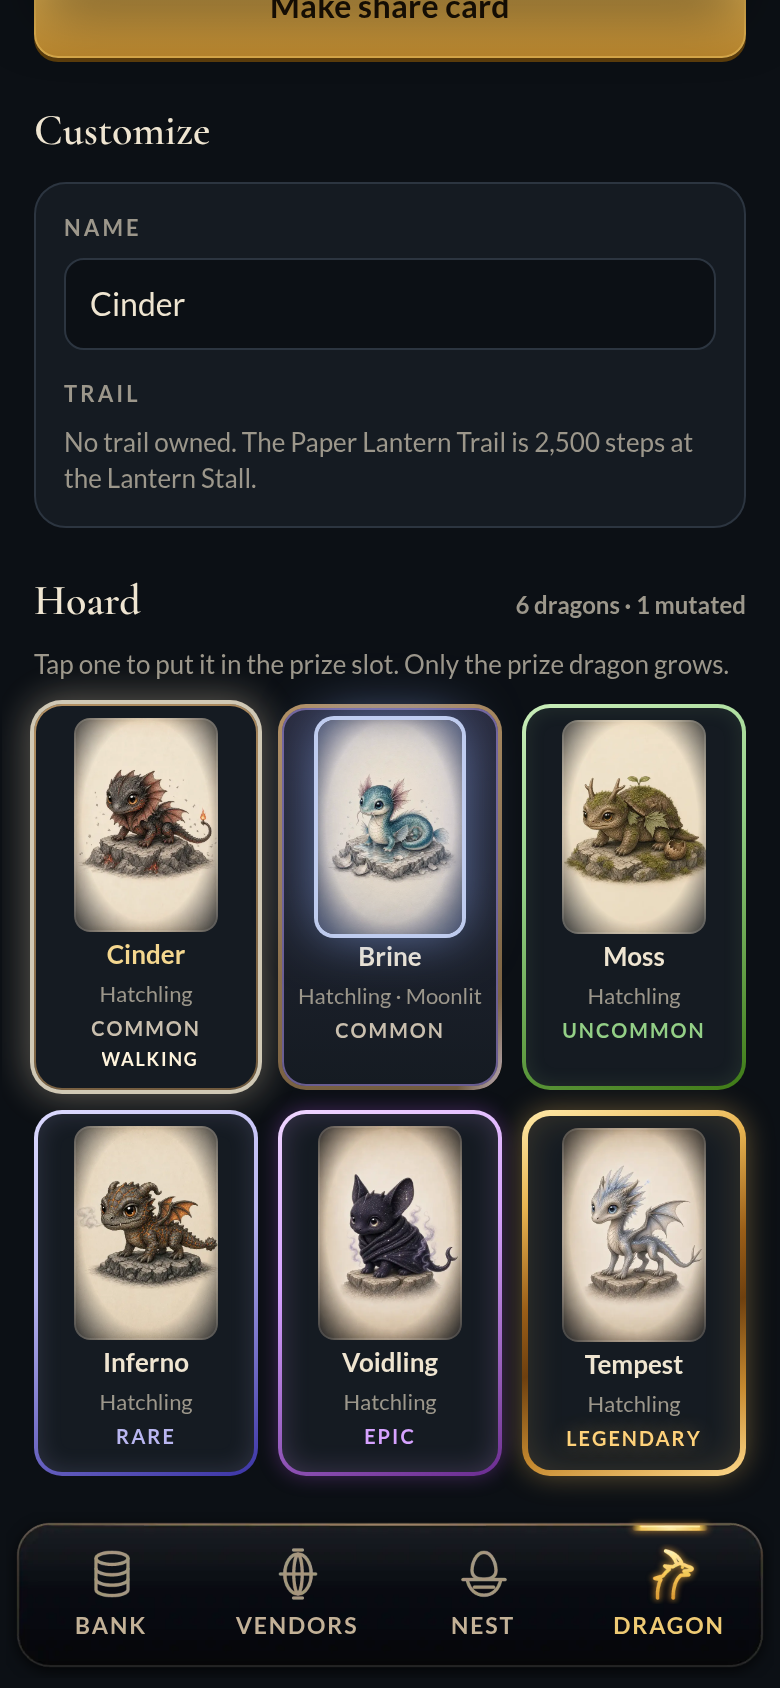
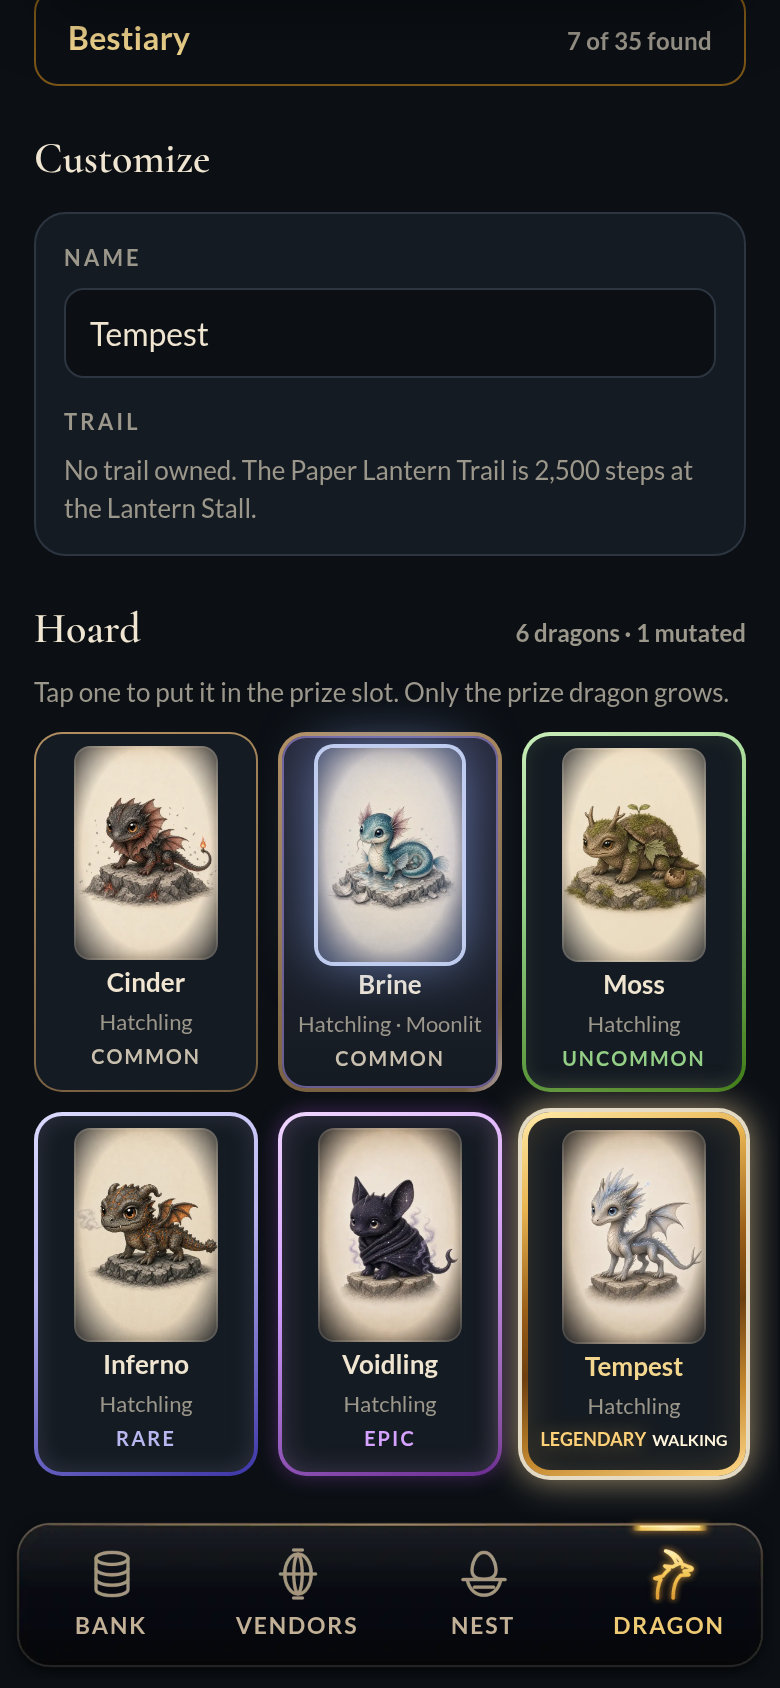
fix: keep WALKING on the rarity line and ignore null collections
The hoard prize tag shares the rarity label, including Legendary at 390px. Saves with a null or non-array eggs or dragons list load as empty arrays.

diff --git a/index.html b/index.html
@@ -243,7 +243,12 @@ button:focus-visible,input:focus-visible,a:focus-visible{outline:2px solid var(-
 .hoard{display:grid;grid-template-columns:repeat(auto-fill,minmax(96px,1fr));gap:10px}
 .hd{padding:6px 6px 8px;display:flex;flex-direction:column;align-items:center;gap:2px;font-size:13px;font-weight:600;min-width:0}
 .hd .dart{width:72px;border-radius:8px}
-.hd span{max-width:100%;overflow:hidden;text-overflow:ellipsis;white-space:nowrap}
+.hd > span{max-width:100%;overflow:hidden;text-overflow:ellipsis;white-space:nowrap}
+.hd > span.hd-rarity{display:inline-flex;align-items:baseline;justify-content:center;gap:4px;max-width:100%;white-space:nowrap;overflow:visible;text-overflow:clip}
+.hd > span.hd-rarity:has(.walk-tag){gap:3px}
+.hd > span.hd-rarity:has(.walk-tag) em{font-size:9px;letter-spacing:0}
+.hd > span.hd-rarity:has(.walk-tag) .walk-tag{font-size:8px;letter-spacing:0}
+.hd-rarity .walk-tag{margin-left:0;flex:none;max-width:none;overflow:visible}
 .hd[aria-pressed="true"]{color:var(--gold-hi)}
 .hd small{font-weight:500;color:var(--muted);font-size:11px}
 .hd em{font-style:normal;font-size:10px;font-weight:700;letter-spacing:.1em;text-transform:uppercase}
@@ -693,10 +698,17 @@ const MUT_NOTES = {
 
 /* ================= state ================= */
 function fresh(){ return {bank:0, lifetime:0, owned:{}, bought:{}, opened:{}, eggs:[], dragons:[], prize:null, scene:0, tab:"bank", seq:1, dex:{}, ver:SAVE_VER}; }
+function asList(v){ return Array.isArray(v) ? v : []; }
+function asMap(v){ return v && typeof v === "object" && !Array.isArray(v) ? v : {}; }
 function hydrate(obj){
   const st = Object.assign(fresh(), obj || {});
   if (!obj || !obj.ver) st.ver = 1;
-  if (!st.dex || typeof st.dex !== "object") st.dex = {};
+  st.dex = asMap(st.dex);
+  st.owned = asMap(st.owned);
+  st.bought = asMap(st.bought);
+  st.opened = asMap(st.opened);
+  st.eggs = asList(st.eggs);
+  st.dragons = asList(st.dragons);
   return st;
 }
 function load(){
@@ -1505,7 +1517,7 @@ function renderDragon(){
     h += `<div class="section"><h2>Hoard <small>${S.dragons.length} dragons${muts ? ` \u00B7 ${muts} mutated` : ""}</small></h2>
       <p class="hoard-note">Tap one to put it in the prize slot. Only the prize dragon grows.</p>
       <div class="hoard">${S.dragons.map((d, i) =>
-      `<button class="hd ${rfcls(d)}"${d.mut ? ` style="${rfd(i)}"` : ""} data-act="prize" data-id="${d.id}" aria-pressed="${d.id === S.prize}">${dragonArt(d, {still:true})}<span>${esc(d.name)}</span><small>${STAGES[stageIdx(d)].name}${d.mut ? ` \u00B7 ${MUTATIONS[d.mut].name}` : ""}</small><em class="r ${rcls(rarityOf(d))}">${rarityOf(d)}</em>${d.id === S.prize ? `<span class="walk-tag">Walking</span>` : ""}</button>`).join("")}</div></div>`;
+      `<button class="hd ${rfcls(d)}"${d.mut ? ` style="${rfd(i)}"` : ""} data-act="prize" data-id="${d.id}" aria-pressed="${d.id === S.prize}">${dragonArt(d, {still:true})}<span>${esc(d.name)}</span><small>${STAGES[stageIdx(d)].name}${d.mut ? ` \u00B7 ${MUTATIONS[d.mut].name}` : ""}</small><span class="hd-rarity"><em class="r ${rcls(rarityOf(d))}">${rarityOf(d)}</em>${d.id === S.prize ? `<span class="walk-tag">Walking</span>` : ""}</span></button>`).join("")}</div></div>`;
   }
   h += `<div style="height:24px"></div>`;
   $("#dragonBody").innerHTML = h;
@@ -1908,6 +1920,12 @@ function debugAct(a, b){
 const OLD_EGG = {ember:"ember", tide:"tide", forest:"forest", frost:"tide", inferno:"inferno", storm:"storm", void:"void", tempest:"tempest"};
 const OLD_SPECIES = ["Cinder","Soot","Brine","Kelp","Moss","Fernback","Frostling","Rimeback","Inferno","Cinderking","Stormling","Pearl Stormling","Voidling","Starveil","Tempest","Stormcrown"];
 function migrate(){
+  S.eggs = asList(S.eggs);
+  S.dragons = asList(S.dragons);
+  S.owned = asMap(S.owned);
+  S.bought = asMap(S.bought);
+  S.opened = asMap(S.opened);
+  if (!S.dex || typeof S.dex !== "object" || Array.isArray(S.dex)) S.dex = {};
   S.dragons.forEach(d => {
     if (!ITEM[d.item] || ITEM[d.item].kind !== "egg") d.item = OLD_EGG[d.item] || "ember";
     if (!d.line || !DRAGONS[d.line]){
